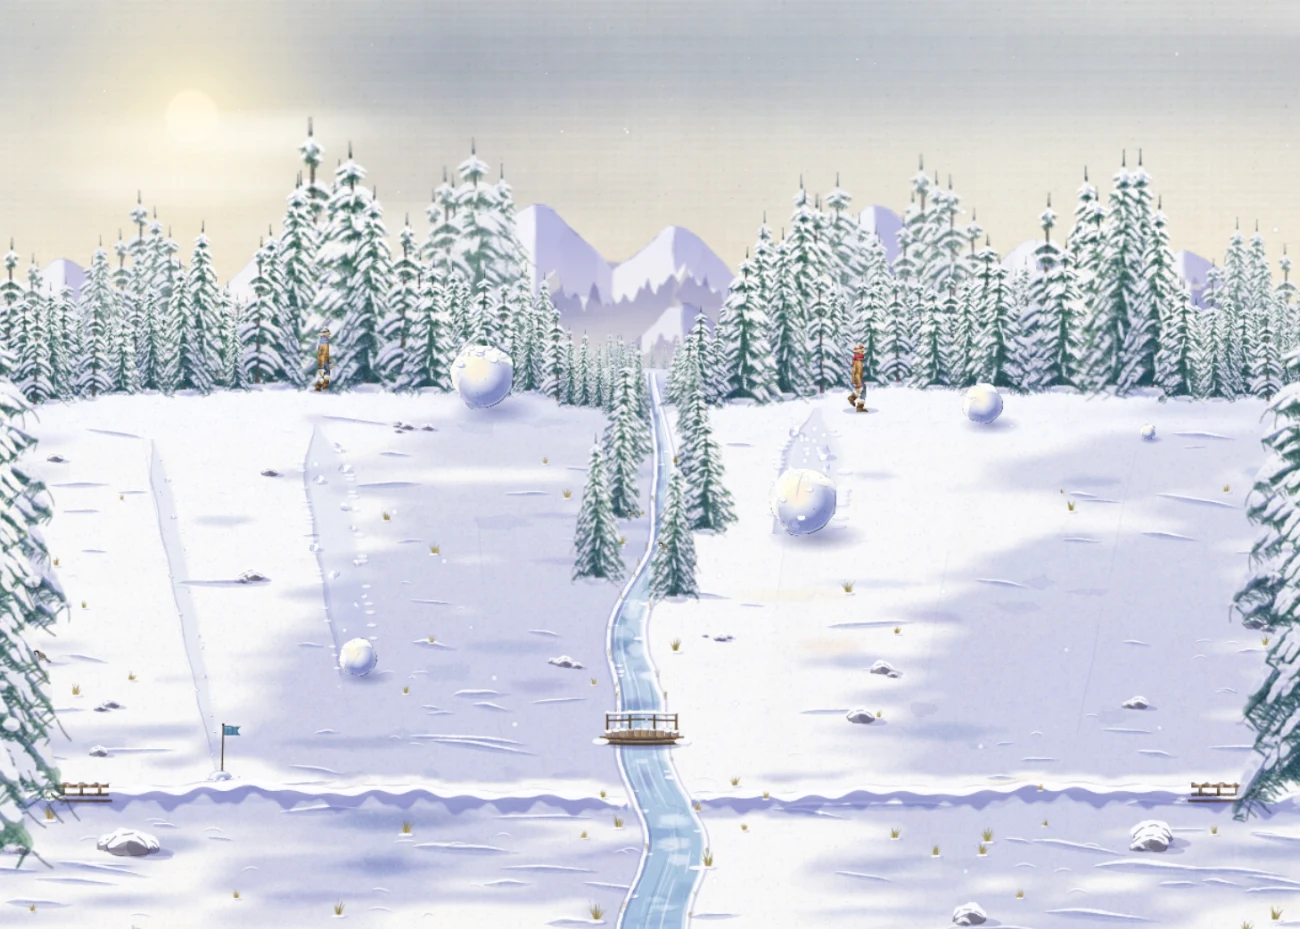
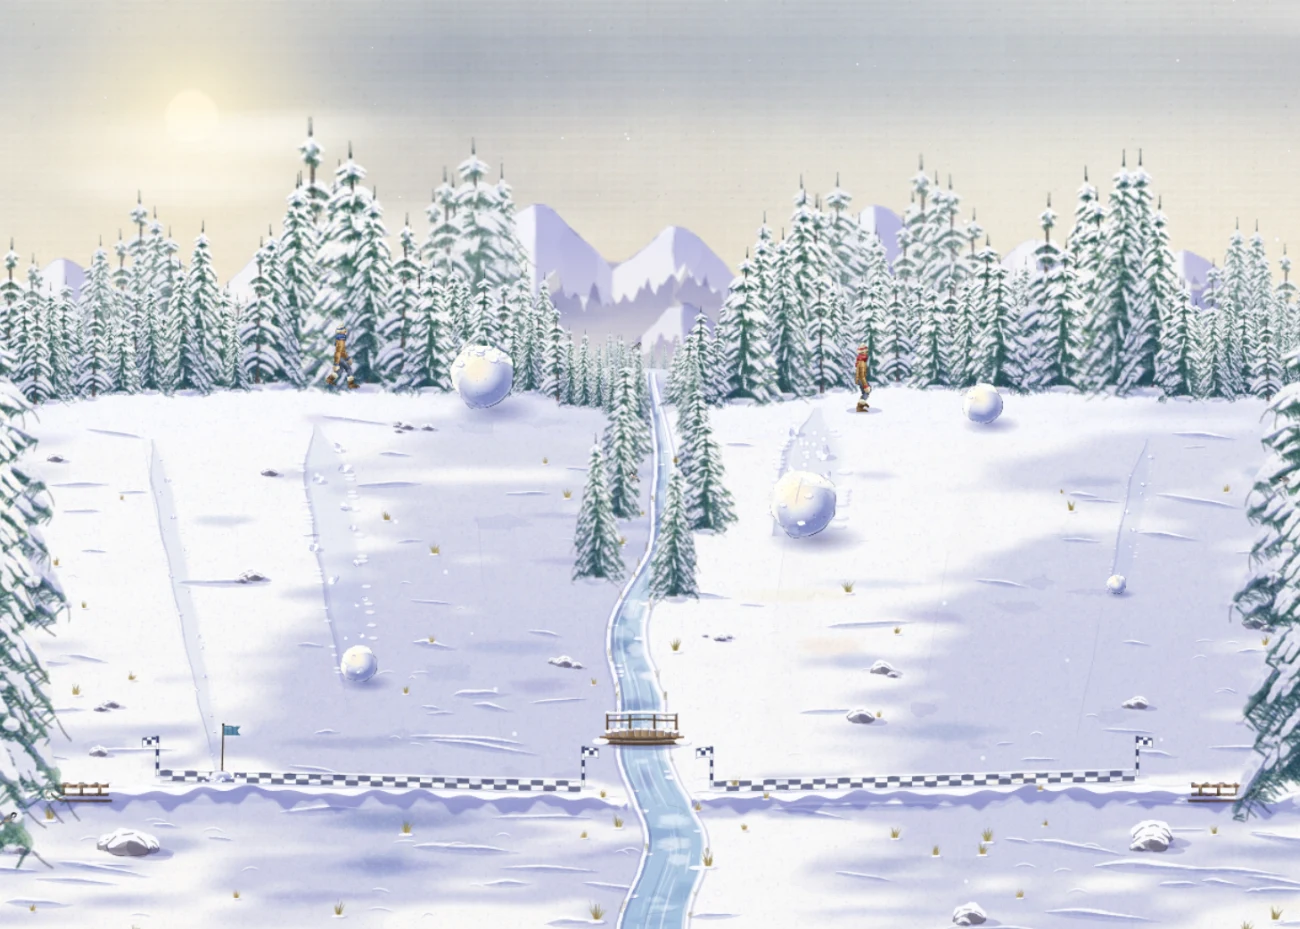
On a Roll: a finish line at the foot of each hill
A checkered band painted across the snow through the ends of each hill's three lanes, where every ball breaks up
and its flag goes in: two rows of squares in a deep indigo wash (laid twice and a little deformed, so the edges
soak), a faint pressed shadow along its front and a lit lip behind, a broken pencil edge, and a striped post with a
checkered pennant at each end. The landing page's still is re-baked to show it.

diff --git a/src/snow/scene/ground.ts b/src/snow/scene/ground.ts
@@ -318,6 +318,115 @@ export function paintBank(ctx: CanvasRenderingContext2D, rnd: Rand, v: View): vo
   }
 }
 
+/**
+ * The finish line on each hill: a checkered band painted across the snow through the ends of its three lanes, where
+ * every ball breaks up and its flag goes in. Two rows of squares in a deep indigo wash (each laid twice, a little
+ * deformed, so its edges soak and breathe), a faint shadow along its front edge as if pressed into the snow, a broken
+ * pencil edge, and a small striped post with a checkered pennant at each end.
+ */
+export function paintFinish(ctx: CanvasRenderingContext2D, rnd: Rand): void {
+  const INK = '#25305e';
+  for (const id of STRATEGIES) {
+    const L = LANES[id];
+    const ends = DEBTS.map((d) => L[d].end).sort((a, b) => a.x - b.x);
+    const a = ends[0]!;
+    const b = ends[ends.length - 1]!;
+    const slope = (b.y - a.y) / (b.x - a.x);
+    // from just outside the outer lanes (clear of a ball's crumble), along the line through their ends
+    const x0 = a.x - 46;
+    const x1 = b.x + 42;
+    const yAt = (x: number) => a.y + (x - a.x) * slope;
+    const H = 7.6;
+    const SQ = 9.5;
+    // the pressed groove: a cool shadow along the band's front, a lit lip above it
+    const front: number[] = [];
+    for (let x = x0; x <= x1; x += 4) front.push(x, yAt(x) + H / 2 + 1.2);
+    ctx.fillStyle = rgba('#7c84c4', 0.22);
+    ribbon(ctx, front, 2.6, 0.5);
+    const lipTop: number[] = [];
+    for (let x = x0; x <= x1; x += 4) lipTop.push(x, yAt(x) - H / 2 - 1.1);
+    ctx.fillStyle = 'rgba(255,255,255,0.8)';
+    ribbon(ctx, lipTop, 1.6, 0.5);
+    // the checks: two rows, alternating, nearer squares a hair larger
+    const n = Math.round((x1 - x0) / SQ);
+    const w = (x1 - x0) / n;
+    for (let i = 0; i < n; i++) {
+      for (let row = 0; row < 2; row++) {
+        if ((i + row) % 2 === 1) continue;
+        const xa = x0 + i * w;
+        const xb = xa + w;
+        const ya = (x: number) => yAt(x) - H / 2 + row * (H / 2);
+        const poly = [xa, ya(xa), xb, ya(xb), xb, ya(xb) + H / 2, xa, ya(xa) + H / 2];
+        ctx.fillStyle = rgba(INK, 0.42);
+        for (let k = 0; k < 2; k++) {
+          tracePoly(ctx, deform(poly, rnd, 2, 0.05));
+          ctx.fill();
+        }
+      }
+    }
+    // the band's edges: broken pencil
+    const top: number[] = [];
+    const bot: number[] = [];
+    for (let x = x0; x <= x1; x += 3) {
+      top.push(x, yAt(x) - H / 2);
+      bot.push(x, yAt(x) + H / 2);
+    }
+    dryBrush(ctx, top, 0.6, INK, 0.5, rnd, 0.25);
+    dryBrush(ctx, bot, 0.7, INK, 0.55, rnd, 0.2);
+    // a post at each end, with a little checkered pennant flying from it
+    for (const [px, dir] of [[x0 - 2, -1], [x1 + 2, 1]] as const) {
+      const py = yAt(px);
+      const s = depthScale(py);
+      const ph = 26 * s;
+      ctx.fillStyle = rgba('#8a90cc', 0.25);
+      ctx.beginPath();
+      ctx.ellipse(px + 3 * s, py + 1, 5 * s, 1.4 * s, 0, 0, Math.PI * 2);
+      ctx.fill();
+      // the pole: white and indigo bands
+      const bands = 6;
+      for (let k = 0; k < bands; k++) {
+        ctx.fillStyle = k % 2 ? 'rgba(250,250,253,0.98)' : rgba(INK, 0.9);
+        ctx.fillRect(px - 0.9 * s, py - ph + (k * ph) / bands, 1.8 * s, ph / bands + 0.2);
+      }
+      ctx.strokeStyle = rgba(INK, 0.7);
+      ctx.lineWidth = 0.35;
+      ctx.strokeRect(px - 0.9 * s, py - ph, 1.8 * s, ph);
+      // the pennant: a little checkered flag, waving outward from the line
+      const fx = px + dir * 0.9 * s;
+      const fy = py - ph + 1;
+      const fw = 9 * s;
+      const fh = 6 * s;
+      ctx.save();
+      ctx.beginPath();
+      ctx.moveTo(fx, fy);
+      ctx.quadraticCurveTo(fx + dir * fw * 0.5, fy - 1 * s, fx + dir * fw, fy + 0.6 * s);
+      ctx.lineTo(fx + dir * fw, fy + fh + 0.6 * s);
+      ctx.quadraticCurveTo(fx + dir * fw * 0.5, fy + fh - 1 * s, fx, fy + fh);
+      ctx.closePath();
+      ctx.fillStyle = 'rgba(252,252,255,0.97)';
+      ctx.fill();
+      ctx.clip();
+      ctx.fillStyle = rgba(INK, 0.85);
+      const c = fh / 2;
+      for (let i = 0; i * c < fw + 1; i++) {
+        for (let r = 0; r < 2; r++) {
+          if ((i + r) % 2) continue;
+          ctx.fillRect(fx + dir * i * c - (dir < 0 ? c : 0), fy - 1.5 * s + r * c + (i * 0.4 * s) / 3, c, c);
+        }
+      }
+      ctx.restore();
+      ctx.strokeStyle = rgba(INK, 0.6);
+      ctx.lineWidth = 0.4;
+      ctx.beginPath();
+      ctx.moveTo(fx, fy);
+      ctx.quadraticCurveTo(fx + dir * fw * 0.5, fy - 1 * s, fx + dir * fw, fy + 0.6 * s);
+      ctx.lineTo(fx + dir * fw, fy + fh + 0.6 * s);
+      ctx.quadraticCurveTo(fx + dir * fw * 0.5, fy + fh - 1 * s, fx, fy + fh);
+      ctx.stroke();
+    }
+  }
+}
+
 /** a rock poking through the snow: a grey-violet wash, a snow cap, a cast shadow to the lower right */
 function paintRock(ctx: CanvasRenderingContext2D, rnd: Rand, x: number, y: number, r: number): void {
   const n = 9;

diff --git a/src/snow/scene/world.ts b/src/snow/scene/world.ts
@@ -13,7 +13,7 @@ import { HILL } from './geom';
 import { crestLine, planPines, ridgeBack, woodTop, type PinePlan } from './layout';
 import { hazeSprite, layPine, makePine, type PineKind, type PineSprite } from './pines';
 import { paintMountains, type View } from './mountains';
-import { paintBank, paintLanes, paintScatter, paintSnowfield } from './ground';
+import { paintBank, paintFinish, paintLanes, paintScatter, paintSnowfield } from './ground';
 import { paintBridge, paintCreek } from './creek';
 
 export interface WorldLayer {
@@ -149,6 +149,8 @@ export async function buildWorld(cam: Camera, check: () => boolean): Promise<Wor
   if (!check()) return null;
   paintBank(ctx, rnd, v);
   paintScatter(ctx, rnd, v);
+  // the finish line over the snow's rocks and grass
+  paintFinish(ctx, rnd);
   lg('bank, rocks');
   await tick();
   if (!check()) return null;
